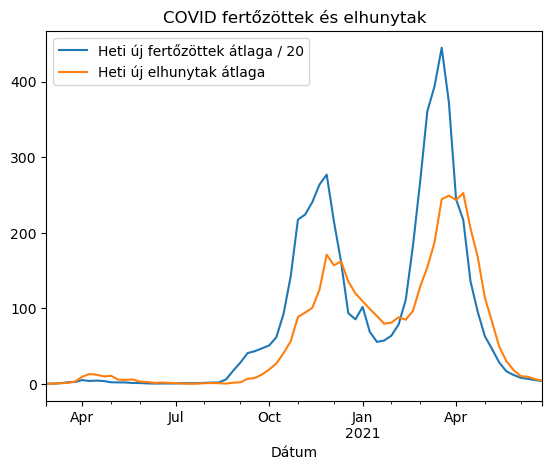
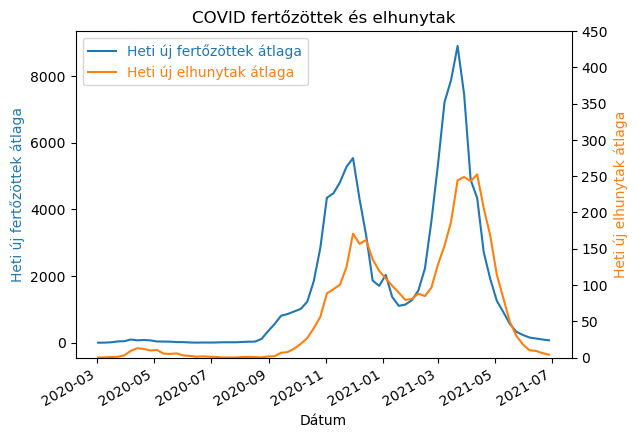
Parazita tengelyek

Changed region(s): [[0.0, 0.0, 0.9855, 0.9498], [0.462, 0.9498, 0.5851, 0.9795]]

diff --git a/kép_halálozási_ráta.py b/kép_halálozási_ráta.py
@@ -5,6 +5,8 @@ import pandas as pd
 import numpy as np
 import datetime as dt
 import os
+from mpl_toolkits.axes_grid1 import host_subplot
+import matplotlib.pyplot as plt
 
 BASEDIR=os.path.dirname(__file__)
 
@@ -21,12 +23,32 @@ fertozott['Hét kezdet'] = df.apply(lambda row: row['Dátum'] - dt.timedelta(day
 dfheti = (fertozott.groupby('Hét kezdet', as_index=False).mean())
 dfheti['Fertőzésben meghalt'] = dfheti.apply(lambda row: row['Fertőzésben meghalt'] if int(row['Fertőzésben meghalt']) >= 15 else np.NaN, axis=1)
 dfheti['Halálozási ráta'] = dfheti['Fertőzésben meghalt'] / dfheti['Napi új fertőzött']
-dfheti = dfheti.rename(columns = {'Hét kezdet': 'Dátum'}, inplace = False)
-dfheti['Heti új fertőzött átlaga / 500000'] = dfheti['Napi új fertőzött'] / 500000
-dfheti['Heti új elhunyt átlaga / 10000'] = dfheti['Napi új elhunyt'] / 10000
+dfheti = dfheti.rename(columns = {'Hét kezdet': 'Dátum', 'Napi új fertőzött': 'Heti új fertőzött átlaga'}, inplace = False)
 
-plot = dfheti.plot(x='Dátum', y=['Halálozási ráta', 'Heti új fertőzött átlaga / 500000'], title="COVID fertőzöttek halálozási rátája (halálozás 12 nappal eltolva)")	
+pd.plotting.register_matplotlib_converters()
 
-fig = plot.get_figure()
+host = host_subplot(111)
+
+par = host.twinx()
+
+host.set_xlabel("Dátum")
+host.set_ylabel("Halálozási ráta")
+host.set_title("COVID fertőzöttek halálozási rátája (halálozás 12 nappal eltolva)")
+par.set_ylabel("Heti új fertőzött átlaga")
+par.set_ylim([0, 80000])
+
+p1, = host.plot(dfheti['Dátum'], dfheti['Halálozási ráta'], label="Halálozási ráta")
+p2, = par.plot(dfheti['Dátum'], dfheti['Heti új fertőzött átlaga'], label="Heti új fertőzött átlaga")
+
+leg = plt.legend()
+
+host.yaxis.get_label().set_color(p1.get_color())
+leg.texts[0].set_color(p1.get_color())
+
+par.yaxis.get_label().set_color(p2.get_color())
+leg.texts[1].set_color(p2.get_color())
+
+fig = host.get_figure()
+fig.autofmt_xdate()
 fig.savefig(BASEDIR + "/képek/FertőzöttekHalálozásiRátája.png", bbox_inches = "tight")
 

diff --git a/kép_fertőzöttek_vs_elhunytak.py b/kép_fertőzöttek_vs_elhunytak.py
@@ -5,6 +5,9 @@ import pandas as pd
 import numpy as np
 import datetime as dt
 import os
+from mpl_toolkits.axes_grid1 import host_subplot
+import matplotlib.pyplot as plt
+
 
 BASEDIR=os.path.dirname(__file__)
 
@@ -12,11 +15,33 @@ df = pd.read_csv(BASEDIR +"/adatok/covidadatok.csv", parse_dates=['Dátum'])
 df['Hét kezdet'] = df.apply(lambda row: row['Dátum'] - dt.timedelta(days=row['Dátum'].weekday()), axis=1)
 
 dfheti = (df.groupby('Hét kezdet', as_index=False).mean())
-dfheti['Heti új fertőzöttek átlaga / 20'] = dfheti['Napi új fertőzött'] / 20
+dfheti['Heti új fertőzöttek átlaga'] = dfheti['Napi új fertőzött']
 dfheti['Heti új elhunytak átlaga'] = dfheti['Napi új elhunyt']
 dfheti['Dátum'] = dfheti['Hét kezdet']
 
-plot = dfheti.plot(x='Dátum', y=['Heti új fertőzöttek átlaga / 20','Heti új elhunytak átlaga'], title="COVID fertőzöttek és elhunytak")	
+pd.plotting.register_matplotlib_converters()
 
-fig = plot.get_figure()
+host = host_subplot(111)
+
+par = host.twinx()
+
+host.set_xlabel("Dátum")
+host.set_ylabel("Heti új fertőzöttek átlaga")
+host.set_title("COVID fertőzöttek és elhunytak")
+par.set_ylabel("Heti új elhunytak átlaga")
+par.set_ylim([0, 450])
+
+p1, = host.plot(dfheti['Dátum'], dfheti['Heti új fertőzöttek átlaga'], label="Heti új fertőzöttek átlaga")
+p2, = par.plot(dfheti['Dátum'], dfheti['Heti új elhunytak átlaga'], label="Heti új elhunytak átlaga")
+
+leg = plt.legend()
+
+host.yaxis.get_label().set_color(p1.get_color())
+leg.texts[0].set_color(p1.get_color())
+
+par.yaxis.get_label().set_color(p2.get_color())
+leg.texts[1].set_color(p2.get_color())
+
+fig = host.get_figure()
+fig.autofmt_xdate()
 fig.savefig(BASEDIR + "/képek/FertőzöttekVsElhunytak.png", bbox_inches = "tight")
